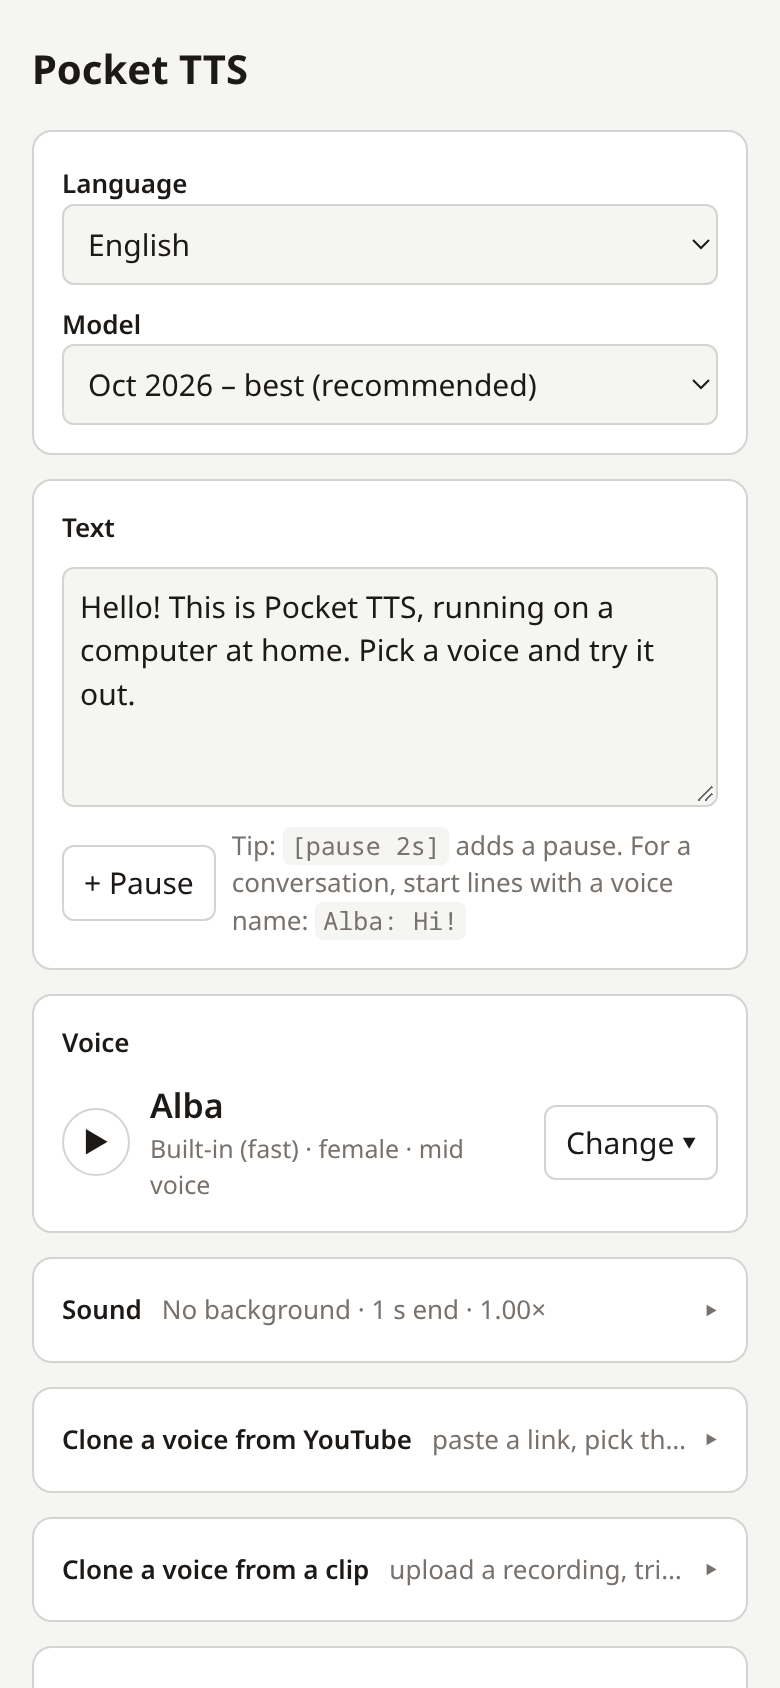
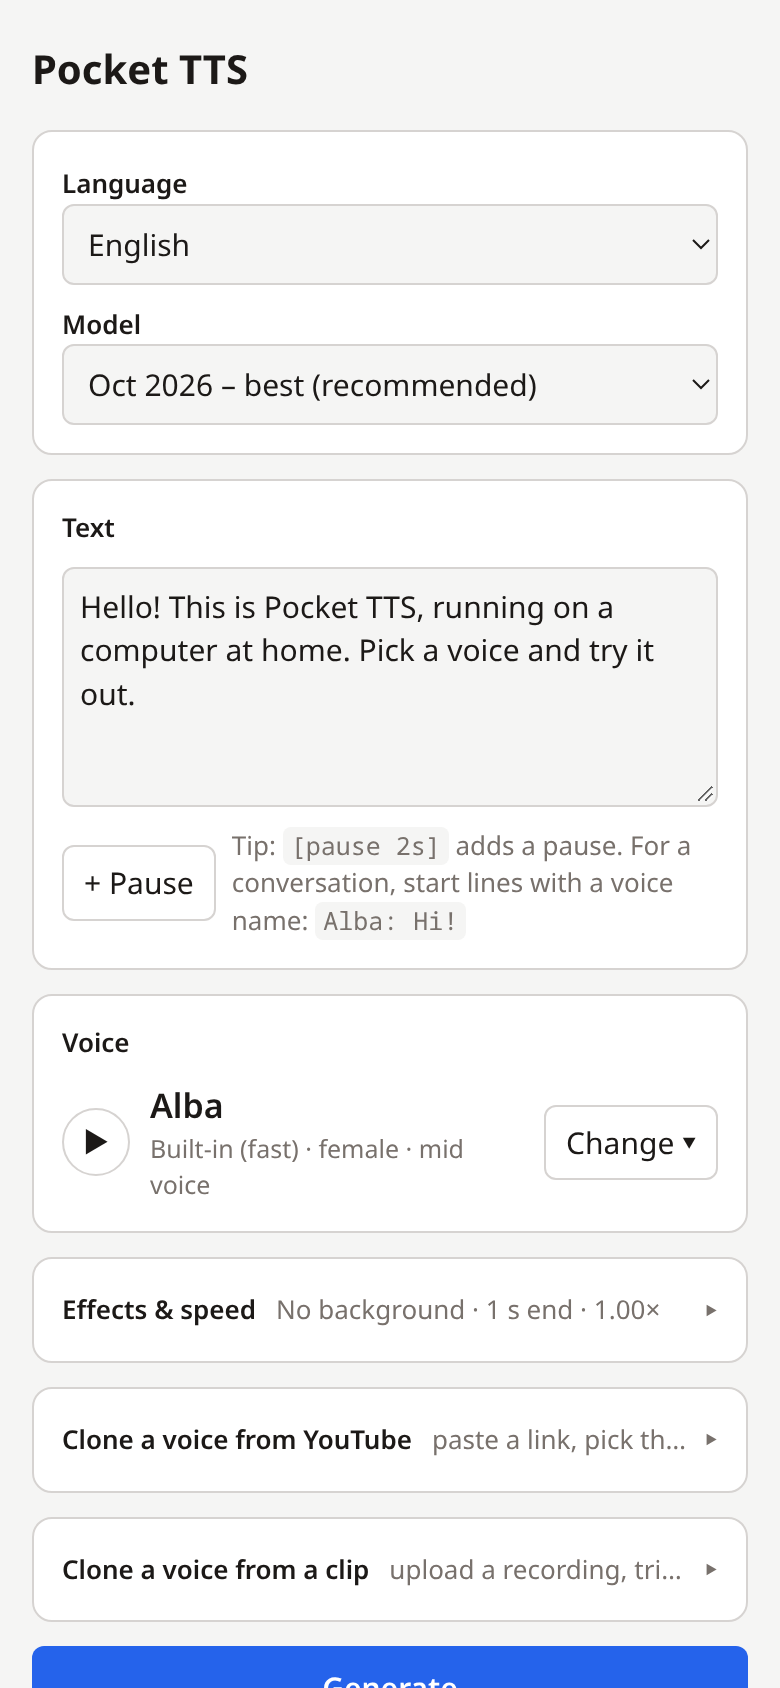
README: desktop screenshot with all cards folded; phone shot updated

diff --git a/README.md b/README.md
@@ -4,7 +4,7 @@ A self-hosted web page for [Kyutai Pocket TTS](https://github.com/kyutai-labs/po
 that runs on an ordinary CPU, with voice cloning.
 
 <p align="center">
-  <img src="docs/screenshots/desktop.png" alt="Pocket TTS web UI on a desktop browser, voice browser open" width="720">
+  <img src="docs/screenshots/desktop.png" alt="Pocket TTS web UI on a desktop browser, extra options folded into one-line cards" width="720">
 </p>
 <p align="center">
   <img src="docs/screenshots/phone-voices.png" alt="On a phone: language, text and the voice browser" width="260">
